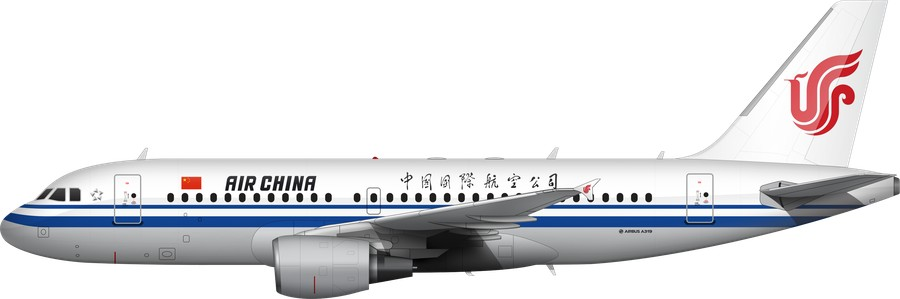
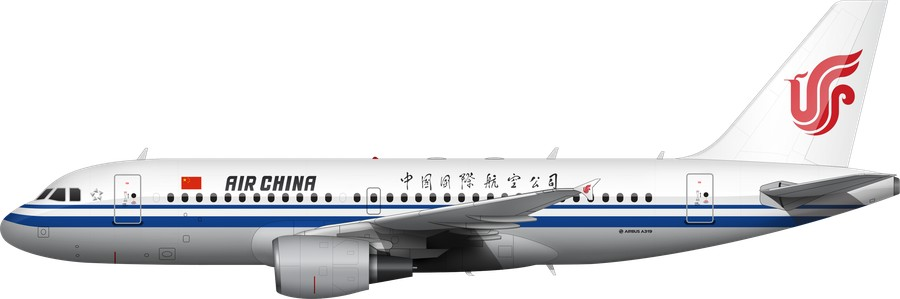
update overview

diff --git a/index.html b/index.html
@@ -37,7 +37,7 @@ button{font-family:inherit}.bar button{border:1px solid #bbb;background:#fff;bor
 <div class="card" data-key="Standard/Air China/Air China - 747-8i" data-name="Air China 747-8i" data-png="Liveries Done/Standard/Air China/Air China - 747-8i/Air China_747-8i.png" data-base="{&quot;status&quot;: &quot;完美&quot;, &quot;reason&quot;: &quot;&quot;, &quot;author&quot;: &quot;我們&quot;, &quot;note&quot;: &quot;&quot;}"><img loading="lazy" src="_work/overview_thumbs900/b264e5c106a4.jpg?v=1795353537"><div class="t">747-8i</div><span class="b"></span><span class="m r"></span><div class="m a"></div></div>
 <div class="card" data-key="Standard/Air China/Air China - 777-300ER" data-name="Air China 777-300ER" data-png="Liveries Done/Standard/Air China/Air China - 777-300ER/Air China_777-300ER.png" data-base="{&quot;status&quot;: &quot;完美&quot;, &quot;reason&quot;: &quot;&quot;, &quot;author&quot;: &quot;我們&quot;, &quot;note&quot;: &quot;&quot;}"><img loading="lazy" src="_work/overview_thumbs900/26700f4a390d.jpg?v=1795356114"><div class="t">777-300ER</div><span class="b"></span><span class="m r"></span><div class="m a"></div></div>
 <div class="card" data-key="Standard/Air China/Air China - 787-9" data-name="Air China 787-9" data-png="Liveries Done/Standard/Air China/Air China - 787-9/Air China_787-9.png" data-base="{&quot;status&quot;: &quot;完美&quot;, &quot;reason&quot;: &quot;&quot;, &quot;author&quot;: &quot;我們&quot;, &quot;note&quot;: &quot;&quot;}"><img loading="lazy" src="_work/overview_thumbs900/e3fb944b1b88.jpg?v=1795359505"><div class="t">787-9</div><span class="b"></span><span class="m r"></span><div class="m a"></div></div>
-<div class="card" data-key="Standard/Air China/Air China - A319" data-name="Air China A319" data-png="Liveries Done/Standard/Air China/Air China - A319/Air China_A319.png" data-base="{&quot;status&quot;: &quot;要處理&quot;, &quot;reason&quot;: &quot;gloss&quot;, &quot;author&quot;: &quot;我們&quot;, &quot;note&quot;: &quot;&quot;}"><img loading="lazy" src="_work/overview_thumbs900/897bd1e86140.jpg?v=1794734152"><div class="t">A319</div><span class="b"></span><span class="m r"></span><div class="m a"></div></div>
+<div class="card" data-key="Standard/Air China/Air China - A319" data-name="Air China A319" data-png="Liveries Done/Standard/Air China/Air China - A319/Air China_A319.png" data-base="{&quot;status&quot;: &quot;完美&quot;, &quot;reason&quot;: &quot;&quot;, &quot;author&quot;: &quot;我們&quot;, &quot;note&quot;: &quot;&quot;}"><img loading="lazy" src="_work/overview_thumbs900/897bd1e86140.jpg?v=1795389819"><div class="t">A319</div><span class="b"></span><span class="m r"></span><div class="m a"></div></div>
 <div class="card" data-key="Standard/Air China/Air China - A319neo" data-name="Air China A319neo" data-png="Liveries Done/Standard/Air China/Air China - A319neo/Air China_A319neo.png" data-base="{&quot;status&quot;: &quot;要處理&quot;, &quot;reason&quot;: &quot;gloss&quot;, &quot;author&quot;: &quot;我們&quot;, &quot;note&quot;: &quot;&quot;}"><img loading="lazy" src="_work/overview_thumbs900/ed9afbb7040e.jpg?v=1794734152"><div class="t">A319neo</div><span class="b"></span><span class="m r"></span><div class="m a"></div></div>
 <div class="card" data-key="Standard/Air China/Air China - A320" data-name="Air China A320" data-png="Liveries Done/Standard/Air China/Air China - A320/Air China_A320.png" data-base="{&quot;status&quot;: &quot;要處理&quot;, &quot;reason&quot;: &quot;gloss&quot;, &quot;author&quot;: &quot;我們&quot;, &quot;note&quot;: &quot;&quot;}"><img loading="lazy" src="_work/overview_thumbs900/9333b53215df.jpg?v=1794734152"><div class="t">A320</div><span class="b"></span><span class="m r"></span><div class="m a"></div></div>
 <div class="card" data-key="Standard/Air China/Air China - A320neo" data-name="Air China A320neo" data-png="Liveries Done/Standard/Air China/Air China - A320neo/Air China_A320neo.png" data-base="{&quot;status&quot;: &quot;要處理&quot;, &quot;reason&quot;: &quot;gloss&quot;, &quot;author&quot;: &quot;我們&quot;, &quot;note&quot;: &quot;&quot;}"><img loading="lazy" src="_work/overview_thumbs900/47404ba12896.jpg?v=1794734152"><div class="t">A320neo</div><span class="b"></span><span class="m r"></span><div class="m a"></div></div>
